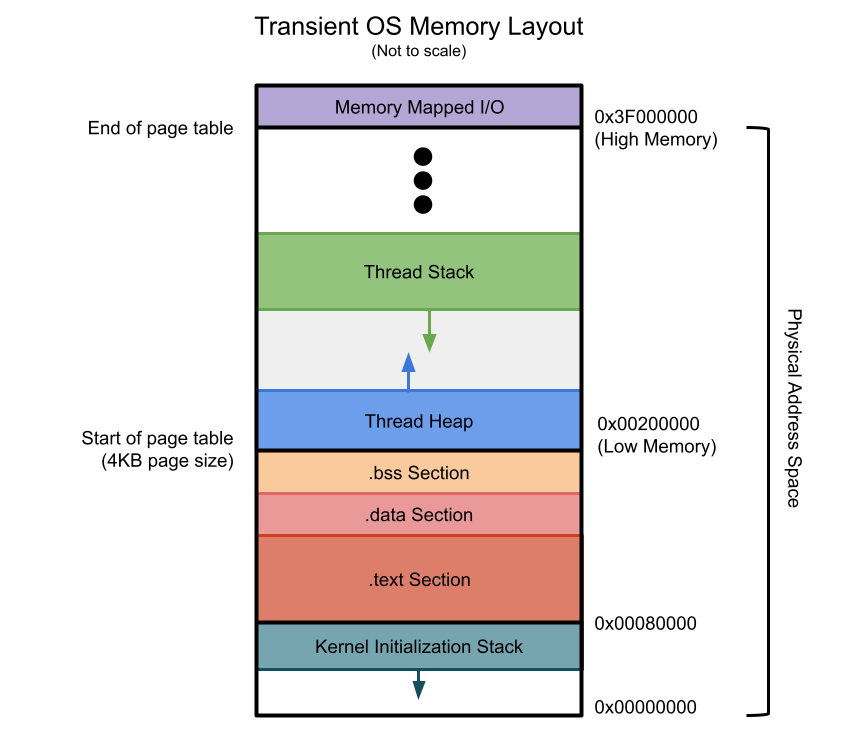
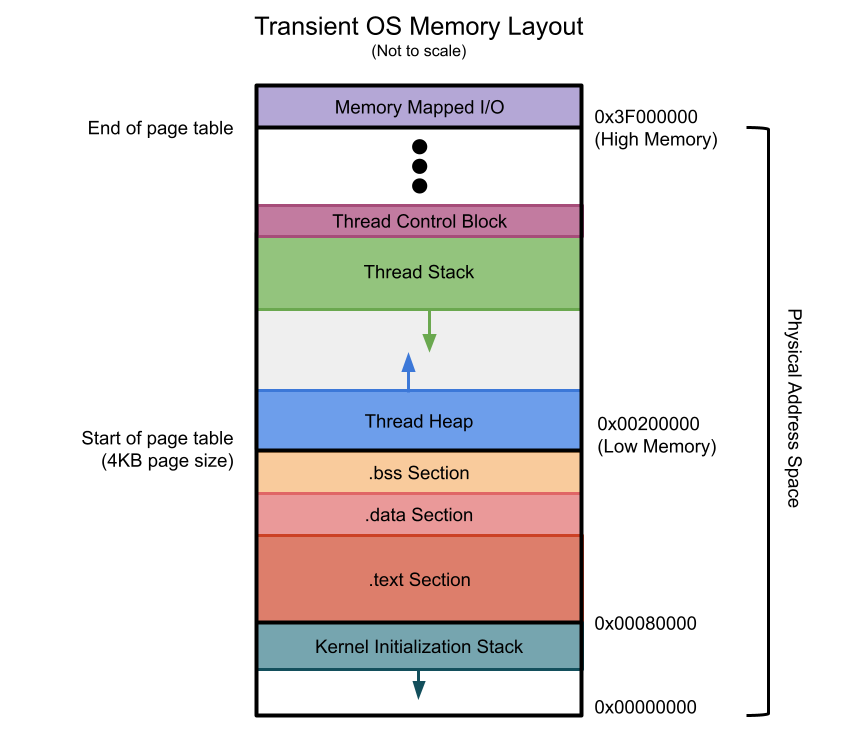
Updated transient-os page

Changed region(s): [[0.3073, 0.1796, 0.7069, 0.3293]]

diff --git a/src/routes/projects/transient-os/+page.svelte b/src/routes/projects/transient-os/+page.svelte
@@ -13,5 +13,82 @@
   ]}
 >
   <h2 class="left-bar fade-in">overview</h2>
-  <p class="left-bar fade-in">Coming soon!</p>
+  <p class="left-bar fade-in">
+    <i>Transient OS</i> is a time-sharing operating system designed for the Raspberry
+    Pi 3. It uses preemptive round-robin scheduling with configurable time quantums
+    to manage concurrency. The system includes several system calls for memory management
+    and thread control.
+  </p>
+
+  <h2 class="left-bar fade-in">example</h2>
+  <p class="left-bar fade-in">
+    A project showcasing the capability of this project can be found <b
+      ><a target="_blank" href="https://github.com/connellr023/game-of-life-tos"
+        >here</a
+      ></b
+    >. This showcase project is a simulation of <i>Conway's Game of Life</i> on
+    <b>257</b>
+    OS Threads. There is one thread for each cell on a 16x16 grid plus one thread
+    for a grid-swap operation.
+  </p>
+
+  <h2 class="left-bar fade-in">purpose</h2>
+  <p class="left-bar fade-in">
+    This operating system is intended to still be used for very low-level
+    programming somewhat similar to a real-time operating system. Additionally,
+    it was also created to learn more about operating systems and how they work.
+  </p>
+
+  <h2 class="left-bar fade-in">features</h2>
+  <p class="left-bar fade-in fade-in">
+    <i>Preemptive Round Robin Scheduling</i> ensures fair CPU time distribution among
+    threads with configurable time quantums.
+  </p>
+  <p class="left-bar fade-in">
+    <i>System Calls</i> provide an essential <b>API</b> for memory management and
+    thread control.
+  </p>
+  <p class="left-bar fade-in">
+    <i>Memory Management</i> consists of a <b>First Fit</b> algorithm for heap allocation
+    and paging (with a page size of 4KB but no virtual memory).
+  </p>
+  <p class="left-bar fade-in">
+    <i>Utilities</i> such as <i>Mutex</i>, <i>Mutex Lock Guard</i>, and
+    <i>Atomic Gaurd</i> provide thread syncronization and atomic operations.
+  </p>
+
+  <h2 class="left-bar fade-in">high_level_design</h2>
+  <p class="left-bar fade-in">
+    <i>Threads</i> are the fundamental unit of execution in this operating system.
+    Each thread is allocated a single page of memory and is scheduled by the kernel.
+    Threads are not tied to each other, that is, there is no concept of parent and
+    child threads. All threads (except the main startup thread) are created by the
+    user and are managed by the kernel.
+  </p>
+  <p class="left-bar fade-in">
+    <i>Thread Stack</i> is located at the top of the memory page and grows downwards.
+    The stack is intended to be half the size of the memory page, but this is not
+    enforced and can certainly overflow into the heap.
+  </p>
+  <p class="left-bar fade-in">
+    <i>Thread Heap</i> is located at the bottom of the memory page and grows upwards.
+    The heap is constrained to be the other half of the memory page and cannot grow
+    beyond that. The heap is implemented as a first-fit allocator with a simple free
+    list. The heap is intended to be used for dynamic memory allocation but is prone
+    to fragmentation.
+  </p>
+
+  <h2 class="left-bar fade-in">diagrams</h2>
+  <div class="image-container">
+    <img
+      class="fade-in"
+      src="/images/transient-os/memory-layout.png"
+      alt="Transient OS memory layout"
+    />
+    <img
+      class="fade-in"
+      src="/images/transient-os/thread-heap-memory-layout.png"
+      alt="Transient OS thread heap memory layout"
+    />
+  </div>
 </ProjectPage>

diff --git a/src/routes/+page.svelte b/src/routes/+page.svelte
@@ -108,8 +108,8 @@
       description="A simple time-sharing operating system for concurrency on the Raspberry Pi 3."
       stack={["C++", "ARMv8 Assembly", "GNU Make", "Raspberry Pi 3"]}
       languageData={[
-        ["C++", "cpp", 82],
-        ["Assembly", "asm", 15],
+        ["C++", "cpp", 87],
+        ["Assembly", "asm", 10],
         ["Make", "make", 3],
       ]}
     />
